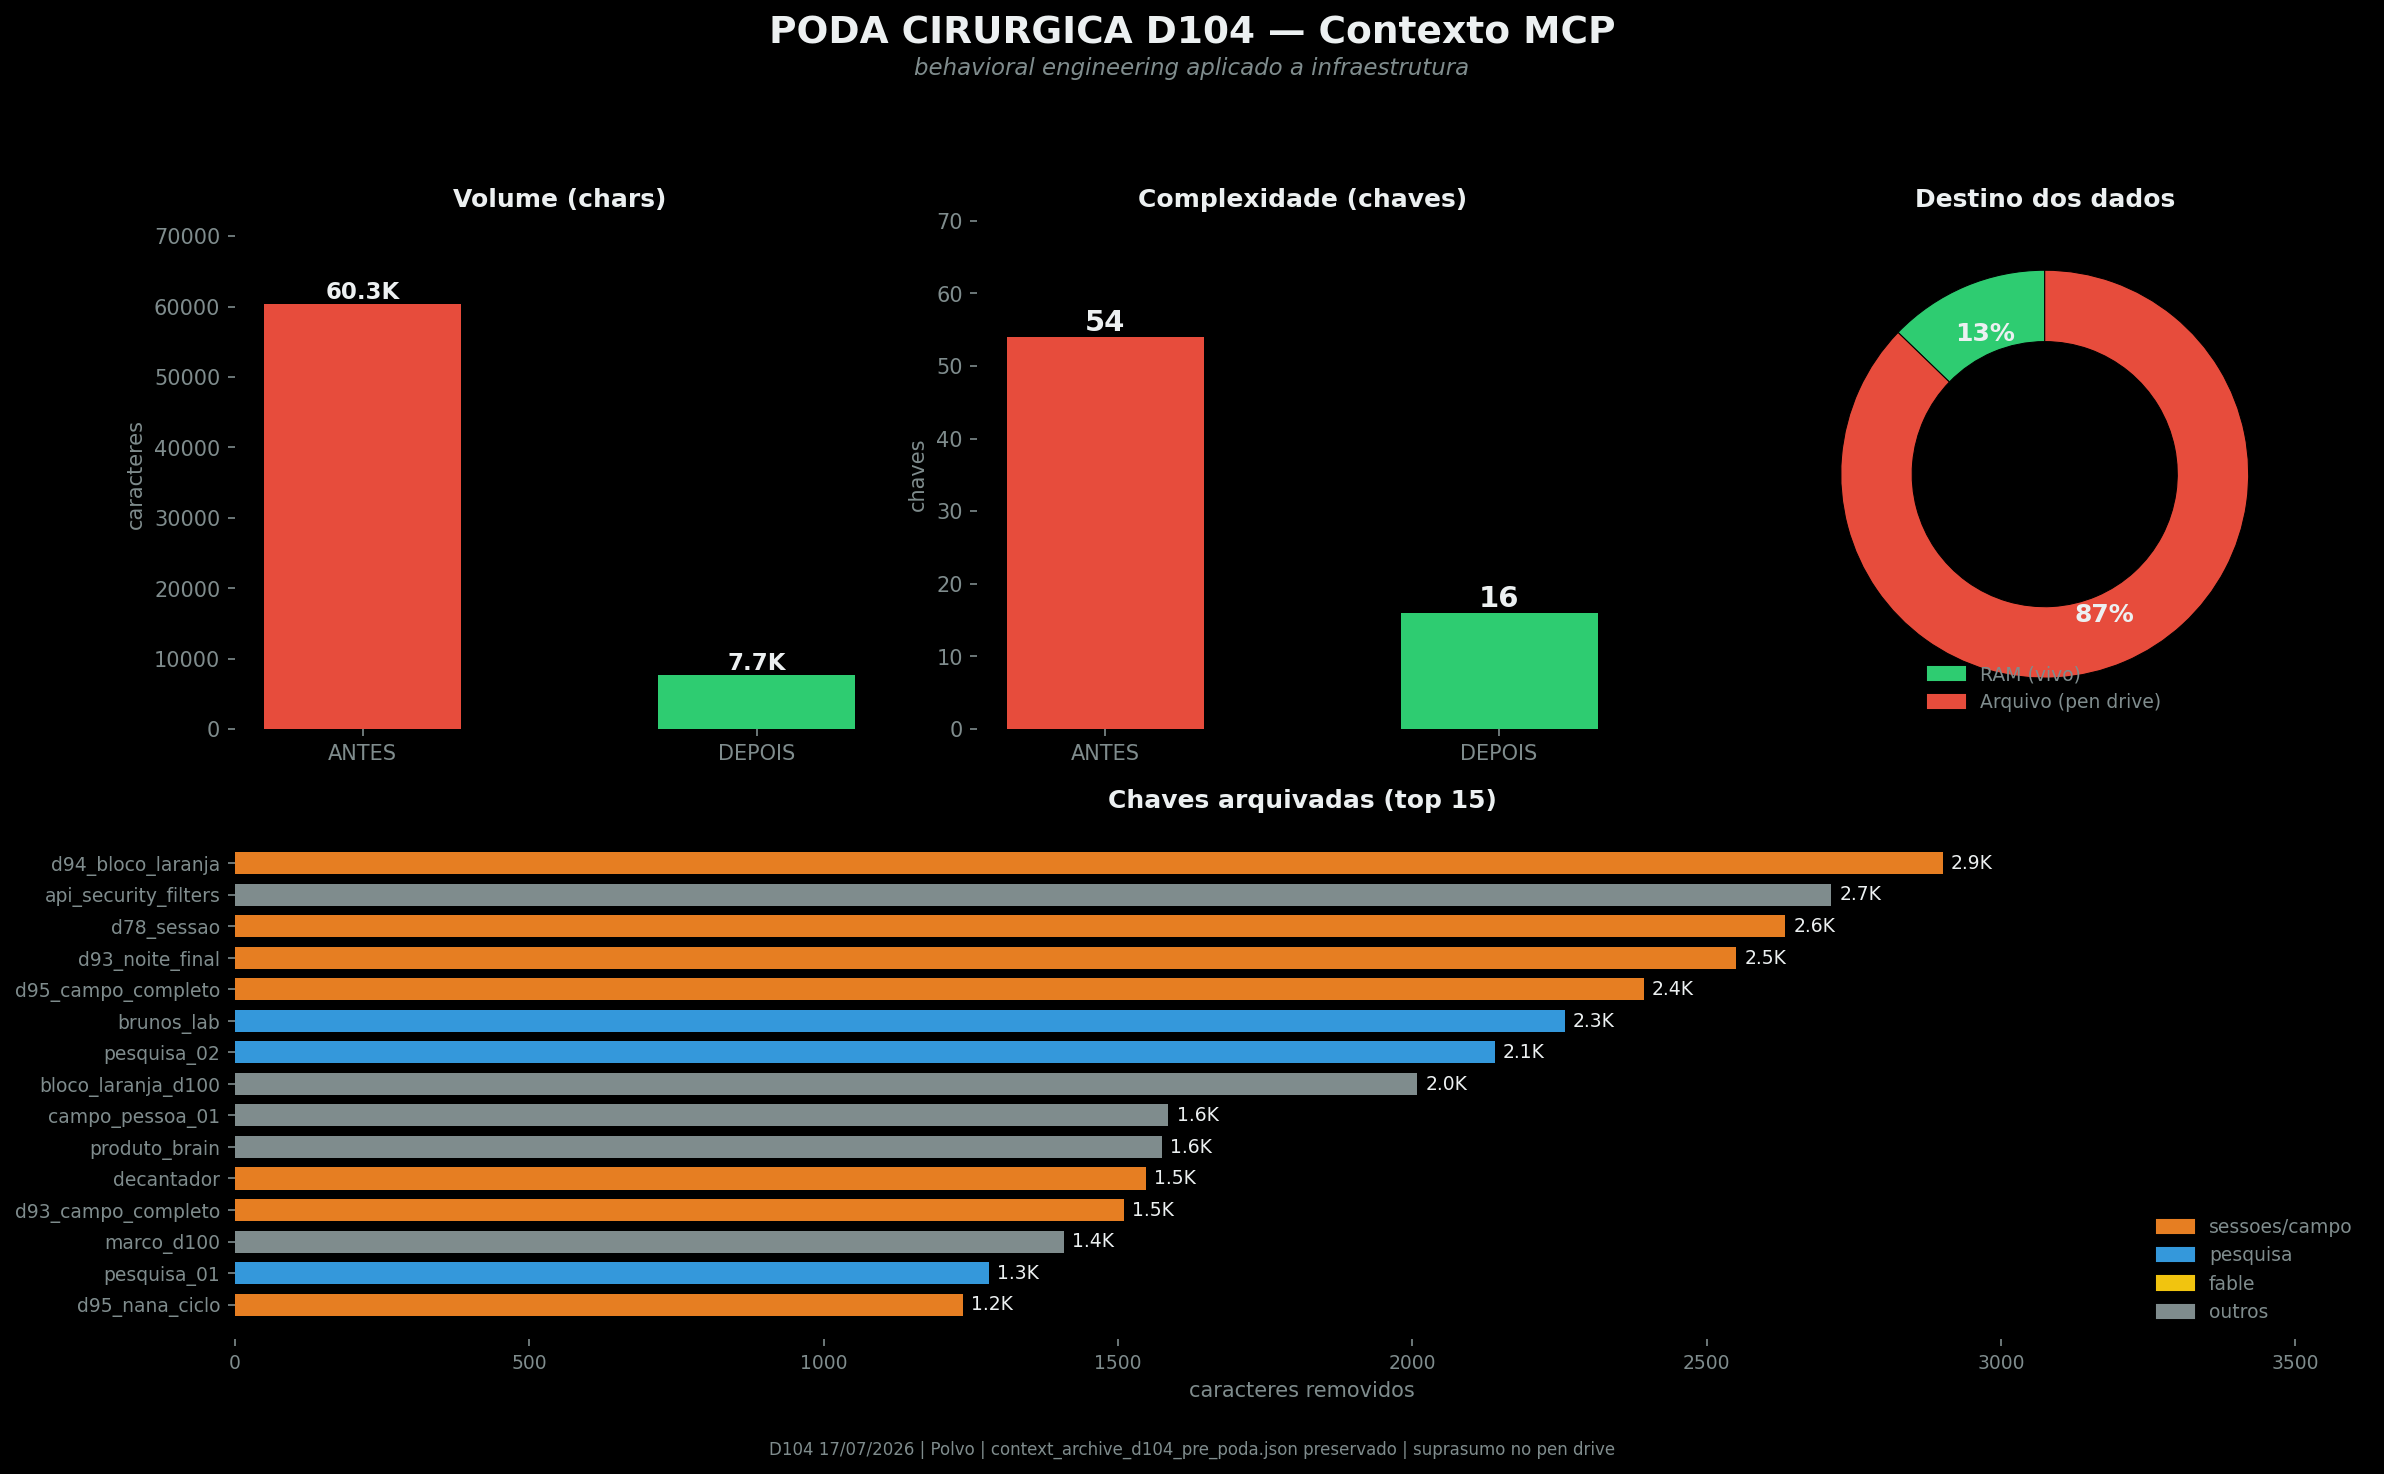
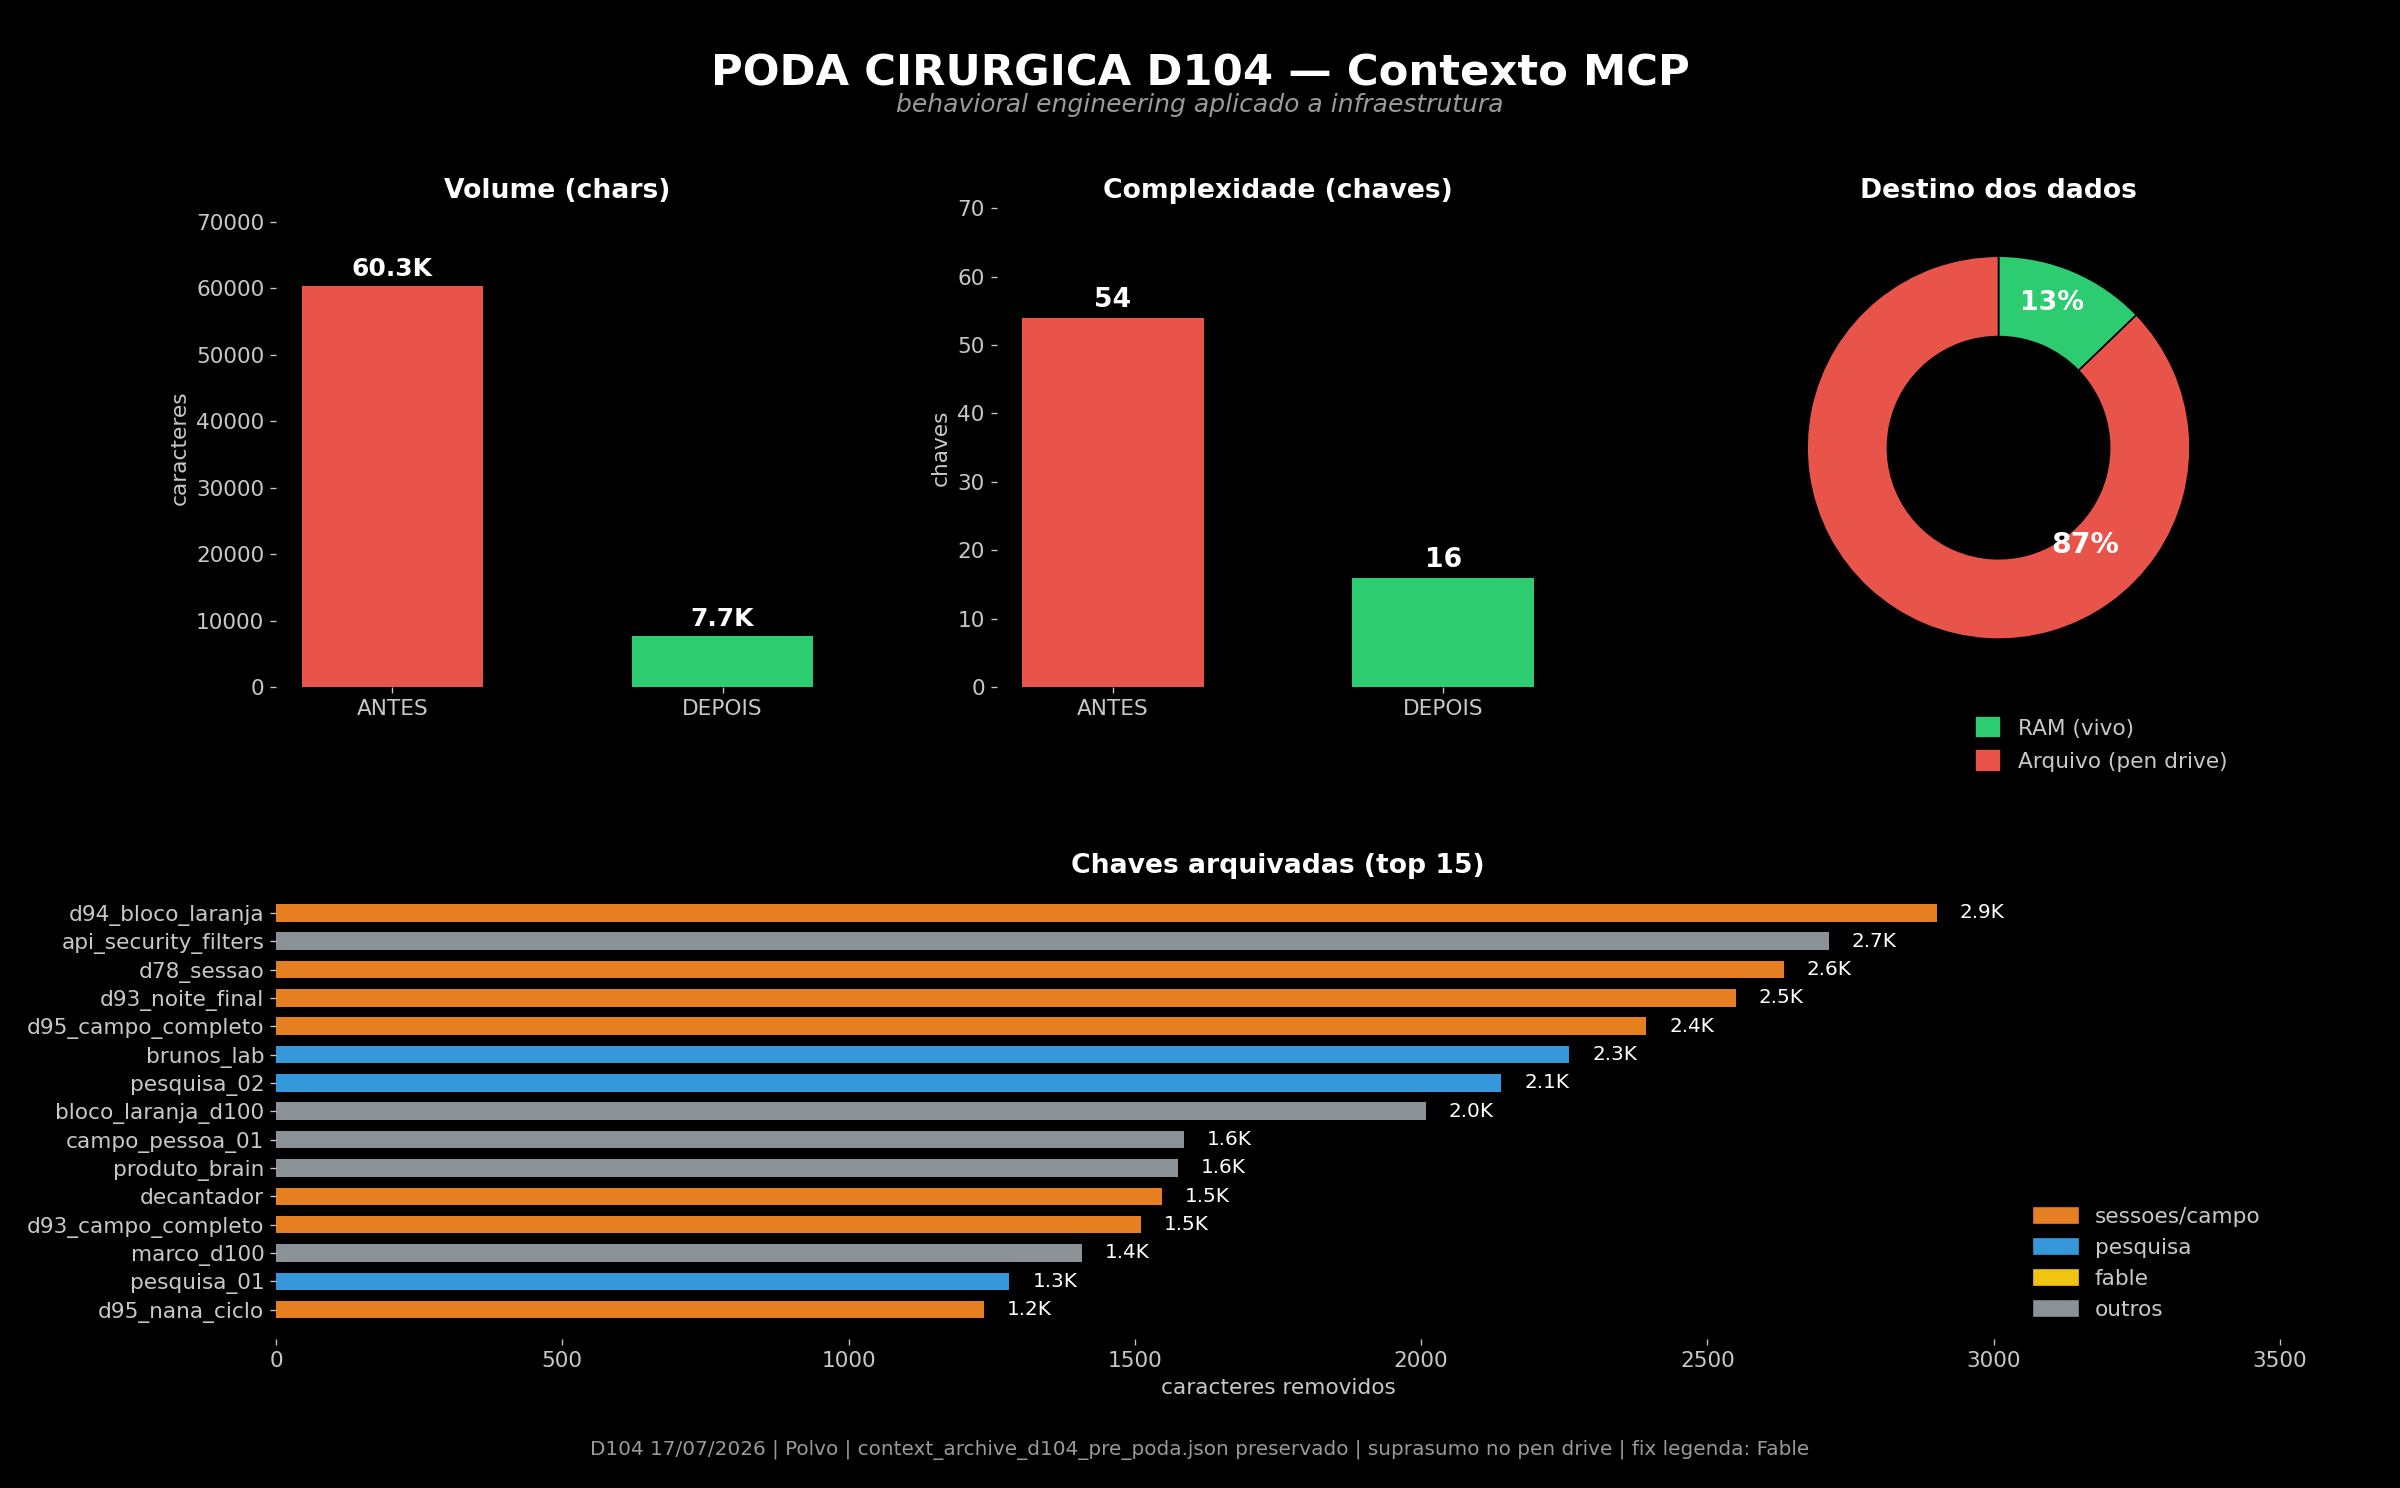
fix(boletim 019): legenda do grafico redondo no padrao + selo novo
Legenda RAM/Arquivo movida pra fora da rosca, alinhada a direita na
mesma linha visual da legenda de categorias. Rotulos do top 15 sem
corte. Selo do caption atualizado (D02B55B1 -> 66D9ED61).

diff --git a/_posts/2026-07-17-boletim-019-o-artefato-e-o-fato.md b/_posts/2026-07-17-boletim-019-o-artefato-e-o-fato.md
@@ -1,4 +1,4 @@
----
+---
 layout: post
 title: "Boletim 019 — O Artefato é o Fato"
 date: 2026-07-17
@@ -41,7 +41,7 @@ guarda na estante.
 
 *Redução de 87%: de 60,3 mil para 7,7 mil caracteres; de 54 para 16
 chaves vivas. Nada foi deletado: 39 chaves arquivadas com backup
-integral. Selo `D02B55B1…` no cofre.*
+integral. Selo `66D9ED61…` no cofre.*
 
 A poda seguiu uma regra só: **o contexto vivo é RAM, não HD.** Fica o
 que orienta a próxima ação — estado atual, pendências, segurança,
